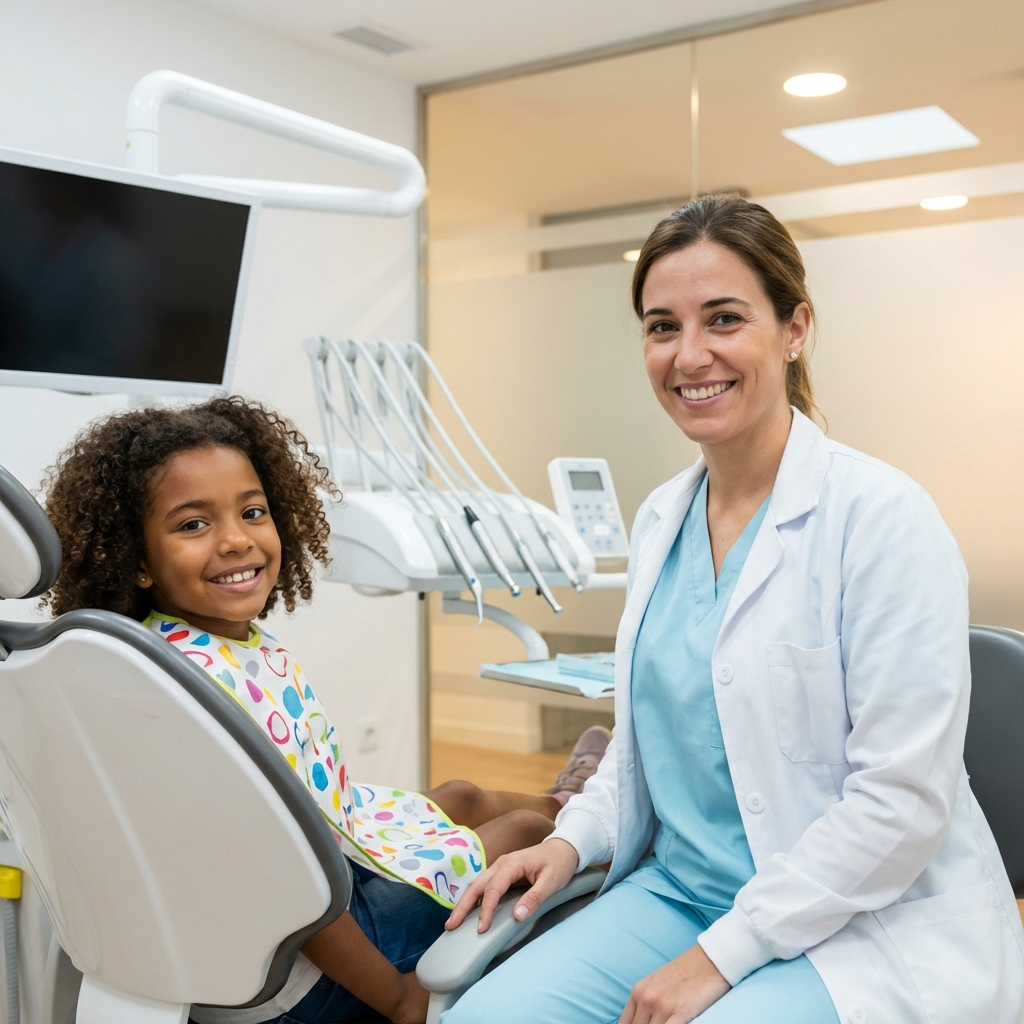
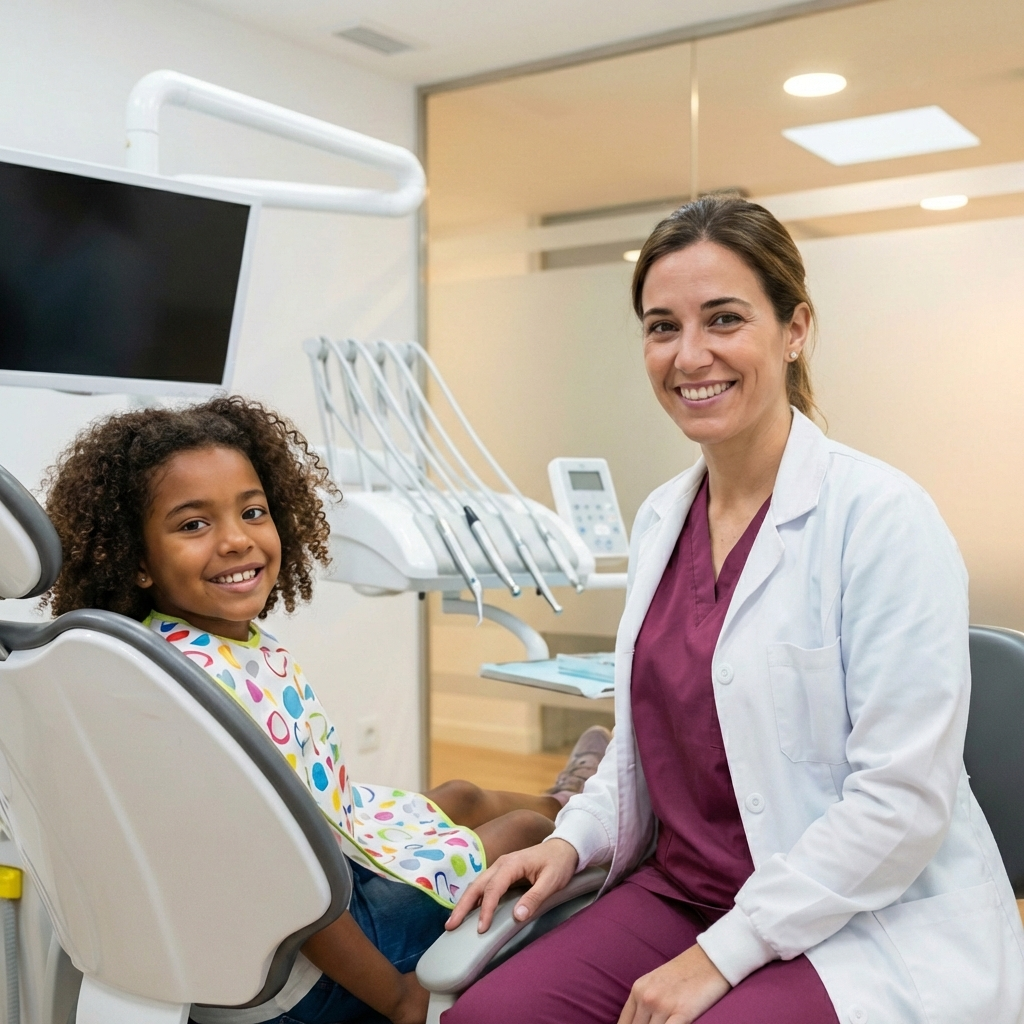
Update Facilities carousel order and doctor uniform color

diff --git a/src/components/FacilitiesSection.tsx b/src/components/FacilitiesSection.tsx
@@ -10,16 +10,11 @@ import facilityKidsCorner from "../assets/facilities/facility_kids_corner.png";
 import facilityDoctors from "../assets/facilities/facility_doctors_ortopantograma.png";
 
 const IMAGES = [
-    facilityKid,         // 1. New: Warm mulato kid
+    facilityReception,   // 4. New: Reception with logo (Moved to 1st)
     facility2,           // 2. Old 2nd
     facility3,           // 3. Old 3rd
-    facilityReception,   // 4. New: Reception with logo
-    facility4,           // 5. Old 5th (was facility4 in imports?) Wait, checking original specific facility4... 
-    // Original code had: facility1, facility2, facility3, unsplash, facility4.
-    // Request: keep 2nd, 3rd, and 5th. 
-    // Original 2nd = facility2.
-    // Original 3rd = facility3.
-    // Original 5th = facility4.
+    facilityKid,         // 1. New: Warm mulato kid (Moved to 4th)
+    facility4,           // 5. Old 5th (was facility4 in imports?)
     facilityKidsCorner,  // 6. New: Kid's corner
     facilityDoctors,     // 7. New: Doctors
 ];
